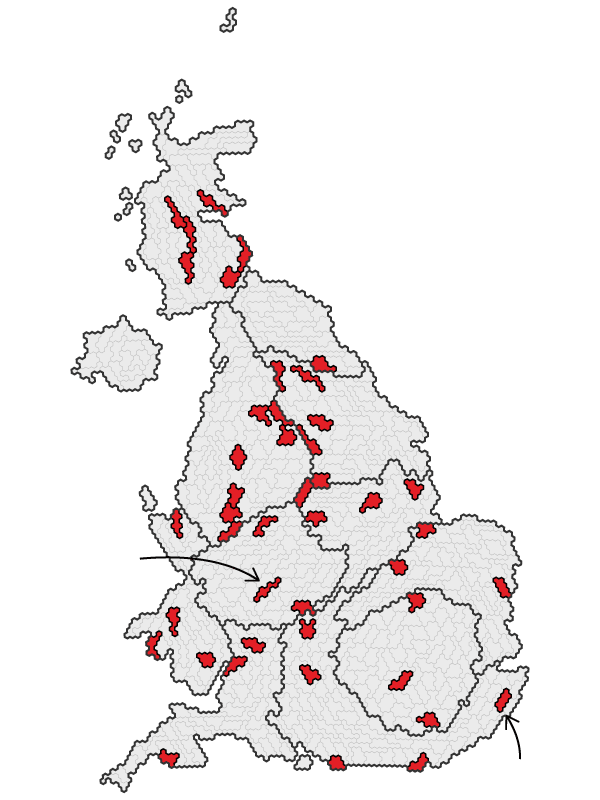
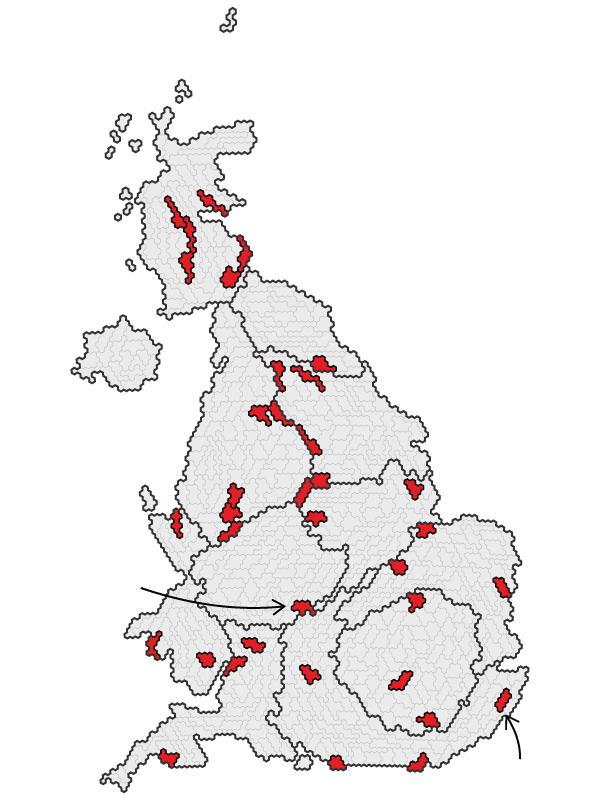
Redo first maps

diff --git a/src/assets/one-gains-lab-355.html b/src/assets/one-gains-lab-355.html
@@ -12,7 +12,7 @@ html, body {
 </head>
 <body>
 <div id='g-one-gains-lab-355-box' class='ai2html'>
-	<!-- Generated by ai2html v0.61-guardian-customized-v10 - 2017-06-09 - 08:46 -->
+	<!-- Generated by ai2html v0.61-guardian-customized-v10 - 2017-06-09 - 12:05 -->
 	<!-- ai file: one -->
 
 	<style type='text/css' media='screen,print'>
@@ -77,9 +77,9 @@ html, body {
 				class='g-aiBackgroundImg'
 				style='width:100%;padding-bottom:133.239436619718%;background-image:url(one-gains-lab-355.png);' >
 				</div>
-			<div id='g-ai6-1' class='g-Layer_1 g-aiAbs' style='top:69.1332%;left:1.9718%;'>
-				<p class='g-aiPstyle0'><span style='color:#000000;' >Edgbaston,</span></p>
-				<p class='g-aiPstyle0'><span style='color:#000000;' >Birmingham</span></p>
+			<div id='g-ai6-1' class='g-Layer_1 g-aiAbs' style='top:67.8647%;left:0%;'>
+				<p class='g-aiPstyle0'><span style='color:#000000;' >Warwick and</span></p>
+				<p class='g-aiPstyle0'><span style='color:#000000;' >Leamington</span></p>
 			</div>
 			<div id='g-ai6-2' class='g-Layer_1 g-aiAbs' style='top:92.6004%;left:81.6901%;'>
 				<p class='g-aiPstyle0'><span style='color:#000000;' >Canterbury</span></p>
@@ -88,7 +88,7 @@ html, body {
 	</div>
 
 
-	<!-- End ai2html - 2017-06-09 - 08:46 -->
+	<!-- End ai2html - 2017-06-09 - 12:05 -->
 </div>
 <script src='https://interactive.guim.co.uk/libs/iframe-messenger/iframeMessenger.js' type='text/javascript'></script>
 <script>iframeMessenger.enableAutoResize()</script>

diff --git a/src/assets/one-gains-lab-300.html b/src/assets/one-gains-lab-300.html
@@ -12,7 +12,7 @@ html, body {
 </head>
 <body>
 <div id='g-one-gains-lab-300-box' class='ai2html'>
-	<!-- Generated by ai2html v0.61-guardian-customized-v10 - 2017-06-09 - 08:46 -->
+	<!-- Generated by ai2html v0.61-guardian-customized-v10 - 2017-06-09 - 12:05 -->
 	<!-- ai file: one -->
 
 	<style type='text/css' media='screen,print'>
@@ -77,9 +77,9 @@ html, body {
 				class='g-aiBackgroundImg'
 				style='width:100%;padding-bottom:133.333333333333%;background-image:url(one-gains-lab-300.png);' >
 				</div>
-			<div id='g-ai2-1' class='g-Layer_1 g-aiAbs' style='top:67.5%;left:0.3333%;'>
-				<p class='g-aiPstyle0'><span style='color:#000000;' >Edgbaston,</span></p>
-				<p class='g-aiPstyle0'><span style='color:#000000;' >Birmingham</span></p>
+			<div id='g-ai2-1' class='g-Layer_1 g-aiAbs' style='top:66.75%;left:0%;'>
+				<p class='g-aiPstyle0'><span style='color:#000000;' >Warwick and</span></p>
+				<p class='g-aiPstyle0'><span style='color:#000000;' >Leamington</span></p>
 			</div>
 			<div id='g-ai2-2' class='g-Layer_1 g-aiAbs' style='top:94.5%;left:78.3333%;'>
 				<p class='g-aiPstyle0'><span style='color:#000000;' >Canterbury</span></p>
@@ -88,7 +88,7 @@ html, body {
 	</div>
 
 
-	<!-- End ai2html - 2017-06-09 - 08:46 -->
+	<!-- End ai2html - 2017-06-09 - 12:05 -->
 </div>
 <script src='https://interactive.guim.co.uk/libs/iframe-messenger/iframeMessenger.js' type='text/javascript'></script>
 <script>iframeMessenger.enableAutoResize()</script>

diff --git a/src/css/_mobile.scss b/src/css/_mobile.scss
@@ -285,6 +285,10 @@
 		.color--otherOne & {
[1 lines of base64/hex data omitted]
 		}
+
+		.color--brexit & {
[1 lines of base64/hex data omitted]
+		}
 	}
 }
 

diff --git a/src/assets/one-gains-base-300.html b/src/assets/one-gains-base-300.html
@@ -12,7 +12,7 @@ html, body {
 </head>
 <body>
 <div id='g-one-gains-base-300-box' class='ai2html'>
-	<!-- Generated by ai2html v0.61-guardian-customized-v10 - 2017-06-09 - 08:46 -->
+	<!-- Generated by ai2html v0.61-guardian-customized-v10 - 2017-06-09 - 12:05 -->
 	<!-- ai file: one -->
 
 	<style type='text/css' media='screen,print'>
@@ -95,7 +95,7 @@ html, body {
 	</div>
 
 
-	<!-- End ai2html - 2017-06-09 - 08:46 -->
+	<!-- End ai2html - 2017-06-09 - 12:05 -->
 </div>
 <script src='https://interactive.guim.co.uk/libs/iframe-messenger/iframeMessenger.js' type='text/javascript'></script>
 <script>iframeMessenger.enableAutoResize()</script>

diff --git a/src/assets/one-gains-base-355.html b/src/assets/one-gains-base-355.html
@@ -12,7 +12,7 @@ html, body {
 </head>
 <body>
 <div id='g-one-gains-base-355-box' class='ai2html'>
-	<!-- Generated by ai2html v0.61-guardian-customized-v10 - 2017-06-09 - 08:46 -->
+	<!-- Generated by ai2html v0.61-guardian-customized-v10 - 2017-06-09 - 12:05 -->
 	<!-- ai file: one -->
 
 	<style type='text/css' media='screen,print'>
@@ -75,7 +75,7 @@ html, body {
 	</div>
 
 
-	<!-- End ai2html - 2017-06-09 - 08:46 -->
+	<!-- End ai2html - 2017-06-09 - 12:05 -->
 </div>
 <script src='https://interactive.guim.co.uk/libs/iframe-messenger/iframeMessenger.js' type='text/javascript'></script>
 <script>iframeMessenger.enableAutoResize()</script>

diff --git a/src/assets/one-gains-con-300.html b/src/assets/one-gains-con-300.html
@@ -12,7 +12,7 @@ html, body {
 </head>
 <body>
 <div id='g-one-gains-con-300-box' class='ai2html'>
-	<!-- Generated by ai2html v0.61-guardian-customized-v10 - 2017-06-09 - 08:46 -->
+	<!-- Generated by ai2html v0.61-guardian-customized-v10 - 2017-06-09 - 12:05 -->
 	<!-- ai file: one -->
 
 	<style type='text/css' media='screen,print'>
@@ -86,7 +86,7 @@ html, body {
 	</div>
 
 
-	<!-- End ai2html - 2017-06-09 - 08:46 -->
+	<!-- End ai2html - 2017-06-09 - 12:05 -->
 </div>
 <script src='https://interactive.guim.co.uk/libs/iframe-messenger/iframeMessenger.js' type='text/javascript'></script>
 <script>iframeMessenger.enableAutoResize()</script>

diff --git a/src/assets/one-gains-con-355.html b/src/assets/one-gains-con-355.html
@@ -12,7 +12,7 @@ html, body {
 </head>
 <body>
 <div id='g-one-gains-con-355-box' class='ai2html'>
-	<!-- Generated by ai2html v0.61-guardian-customized-v10 - 2017-06-09 - 08:46 -->
+	<!-- Generated by ai2html v0.61-guardian-customized-v10 - 2017-06-09 - 12:05 -->
 	<!-- ai file: one -->
 
 	<style type='text/css' media='screen,print'>
@@ -86,7 +86,7 @@ html, body {
 	</div>
 
 
-	<!-- End ai2html - 2017-06-09 - 08:46 -->
+	<!-- End ai2html - 2017-06-09 - 12:05 -->
 </div>
 <script src='https://interactive.guim.co.uk/libs/iframe-messenger/iframeMessenger.js' type='text/javascript'></script>
 <script>iframeMessenger.enableAutoResize()</script>

diff --git a/src/assets/one-gains-ld-300.html b/src/assets/one-gains-ld-300.html
@@ -12,7 +12,7 @@ html, body {
 </head>
 <body>
 <div id='g-one-gains-ld-300-box' class='ai2html'>
-	<!-- Generated by ai2html v0.61-guardian-customized-v10 - 2017-06-09 - 08:46 -->
+	<!-- Generated by ai2html v0.61-guardian-customized-v10 - 2017-06-09 - 12:05 -->
 	<!-- ai file: one -->
 
 	<style type='text/css' media='screen,print'>
@@ -88,7 +88,7 @@ html, body {
 	</div>
 
 
-	<!-- End ai2html - 2017-06-09 - 08:46 -->
+	<!-- End ai2html - 2017-06-09 - 12:05 -->
 </div>
 <script src='https://interactive.guim.co.uk/libs/iframe-messenger/iframeMessenger.js' type='text/javascript'></script>
 <script>iframeMessenger.enableAutoResize()</script>

diff --git a/src/assets/one-gains-ld-355.html b/src/assets/one-gains-ld-355.html
@@ -12,7 +12,7 @@ html, body {
 </head>
 <body>
 <div id='g-one-gains-ld-355-box' class='ai2html'>
-	<!-- Generated by ai2html v0.61-guardian-customized-v10 - 2017-06-09 - 08:46 -->
+	<!-- Generated by ai2html v0.61-guardian-customized-v10 - 2017-06-09 - 12:05 -->
 	<!-- ai file: one -->
 
 	<style type='text/css' media='screen,print'>
@@ -88,7 +88,7 @@ html, body {
 	</div>
 
 
-	<!-- End ai2html - 2017-06-09 - 08:46 -->
+	<!-- End ai2html - 2017-06-09 - 12:05 -->
 </div>
 <script src='https://interactive.guim.co.uk/libs/iframe-messenger/iframeMessenger.js' type='text/javascript'></script>
 <script>iframeMessenger.enableAutoResize()</script>

diff --git a/src/css/main.scss b/src/css/main.scss
@@ -1,12 +1,16 @@
 $lab: #E42729;
-$con: #005689;
+$con: #1A60A9;
 $ukip: #7D0068;
 $otherOne: #484f53;
+$brexit: #005689;
+$snp: #FDD806;
 
 $colors: 	lab $lab,
 			con $con,
 			ukip $ukip,
-			otherOne $otherOne;
+			otherOne $otherOne,
+            brexit $brexit
+            snp $snp;
 
 @import "mq";
 @import "fonts";
